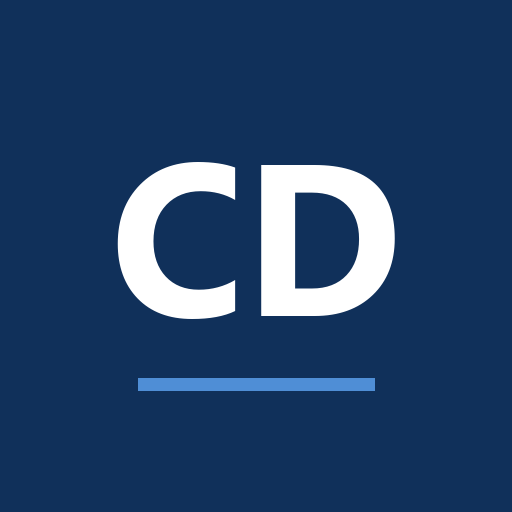
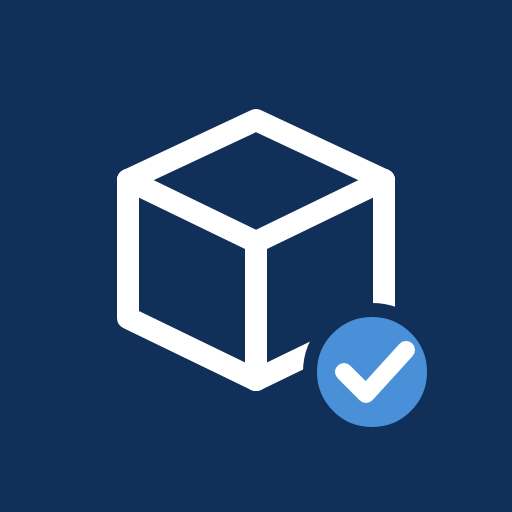
Nuevo nombre Sistema DespachoX V1 e icono de caja con verificación
Claude-Session: https://claude.ai/code/session_0177Srd6R4MK4pwqjQPU3zDq

Changed region(s): [[0.2188, 0.2188, 0.8438, 0.8438]]

diff --git a/index.html b/index.html
@@ -3,12 +3,12 @@
 <head>
 <meta charset="utf-8">
 <meta name="viewport" content="width=device-width, initial-scale=1, viewport-fit=cover">
-<title>Control de Despachos</title>
+<title>Sistema DespachoX V1</title>
 <meta name="description" content="Registro de despachos, cobranzas y comisiones de vendedores.">
 <meta name="theme-color" content="#10305a">
 <meta name="apple-mobile-web-app-capable" content="yes">
 <meta name="apple-mobile-web-app-status-bar-style" content="black-translucent">
-<meta name="apple-mobile-web-app-title" content="Despachos">
+<meta name="apple-mobile-web-app-title" content="DespachoX">
 <link rel="manifest" href="manifest.webmanifest">
 <link rel="icon" href="icons/icon-192.png">
 <link rel="apple-touch-icon" href="icons/apple-touch-icon.png">
@@ -26,7 +26,7 @@
 <!-- ===================== INICIO DE SESIÓN ===================== -->
 <div class="login" id="vLogin" hidden>
   <form class="box" id="formLogin" novalidate>
-    <div class="brand"><div class="mark">CD</div><h1>Control de Despachos y Cobranzas<small>Inicie sesión para continuar</small></h1></div>
+    <div class="brand"><div class="mark">DX</div><h1>Sistema DespachoX V1<small>Inicie sesión para continuar</small></h1></div>
     <label class="f">Correo electrónico<input type="email" id="lCorreo" autocomplete="username" required></label>
     <label class="f">Contraseña<input type="password" id="lClave" autocomplete="current-password" required></label>
     <label class="f" id="lNombreWrap" hidden>Nombre y apellido<input id="lNombre" autocomplete="name"></label>
@@ -49,7 +49,7 @@
 <div id="vApp" hidden>
   <div class="band">
     <div class="wrap">
-      <div class="brand"><div class="mark" aria-hidden="true">CD</div><h1>Control de Despachos y Cobranzas<small>Notas de entrega, facturas, cobros y comisiones</small></h1></div>
+      <div class="brand"><div class="mark" aria-hidden="true">DX</div><h1>Sistema DespachoX V1<small>Notas de entrega, facturas, cobros y comisiones</small></h1></div>
       <div class="who"><span class="dot" id="dot"></span><span id="whoName"></span><span class="role" id="whoRole"></span><button type="button" id="btnSalir">Cerrar sesión</button></div>
       <nav role="tablist" aria-label="Secciones" id="nav"></nav>
     </div>

diff --git a/documentos.js b/documentos.js
@@ -205,7 +205,7 @@ function reporteHTML(r) {
   ${(r.pares || []).map(([a, b]) => `<div class="rp-grid"><div>${bloque(a)}</div><div>${b ? bloque(b) : ""}</div></div>`).join("")}
   ${(r.tablas || []).map(bloque).join("")}
   ${r.nota ? `<p style="font-size:10px;color:#555;margin-top:10px">${esc(r.nota)}</p>` : ""}
-  <div class="rp-pie"><span>${esc(e.NOMBRE || "")} · Control de Despachos y Cobranzas</span><span>${esc(r.periodo)}</span></div>
+  <div class="rp-pie"><span>${esc(e.NOMBRE || "")} · Sistema DespachoX V1</span><span>${esc(r.periodo)}</span></div>
 </div>`;
 }
 

diff --git a/sw.js b/sw.js
@@ -1,6 +1,6 @@
 // Guarda la aplicación para que abra rápido e instale como app.
 // Los datos nunca se guardan aquí: siempre vienen de Supabase.
-const CACHE = "despachos-v9";
+const CACHE = "despachos-v10";
 const SHELL = ["./", "index.html", "styles.css", "app.js", "documentos.js", "config.js", "manifest.webmanifest", "icons/icon-192.png", "icons/icon-512.png", "icons/logo.png"];
 
 self.addEventListener("install", e => e.waitUntil(caches.open(CACHE).then(c => c.addAll(SHELL)).then(() => self.skipWaiting())));
